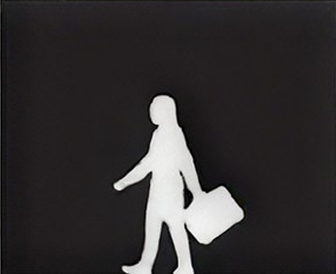
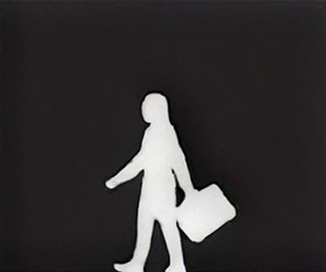
update feature img responsiveness

diff --git a/src/pages/css/Landing.module.css b/src/pages/css/Landing.module.css
@@ -1804,7 +1804,7 @@
   grid-template-columns: 1fr 1fr 1fr;
   grid-template-rows: 140px 180px;
   gap: 12px;
-  width: 75%;
+  /* width: 75%; */
   align-self: flex-end;
 }
 
@@ -1814,20 +1814,30 @@
   border-radius: 4px;
   width: 100%;
   height: 100%;
+  justify-self: end;
 }
 
 .collageBoxWide {
-  background-color: #1c1c1c; 
+  /* background-color: #1c1c1c;  */
   border-radius: 4px;
   grid-column: 1 / -1;
-  width: 66%;
+  /* width: 66%; */
   justify-self: end;
   height: 100%;
 }
 
 .collageImg {
-  width: 100%;
-  height: 100%;
+  width: 169px;
+  height: 136px;
+  object-position: center;
+  display: block;
+  justify-self: end;
+}
+
+
+.collageImgWide {
+  width: 344px;
+  height: 136px;
   object-position: center;
   display: block;
 }

diff --git a/src/pages/Landing.jsx b/src/pages/Landing.jsx
@@ -700,7 +700,7 @@ useLayoutEffect(() => {
                 <img src={collage3} alt="Signatures" className={styles.collageImg} />
               </div>
               <div className={styles.collageBoxWide}>
-                <img src={collageWide} alt="Audit trail" className={styles.collageImg} />
+                <img src={collageWide} alt="Audit trail" className={styles.collageImgWide} />
               </div>
             </div>
 
